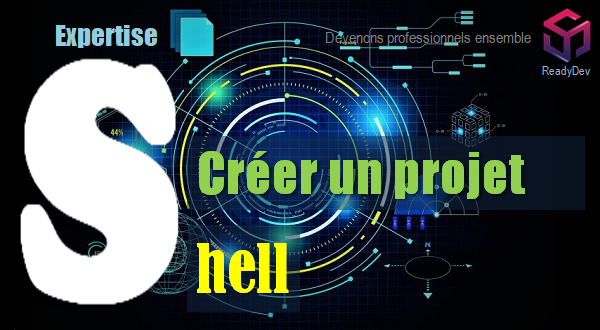
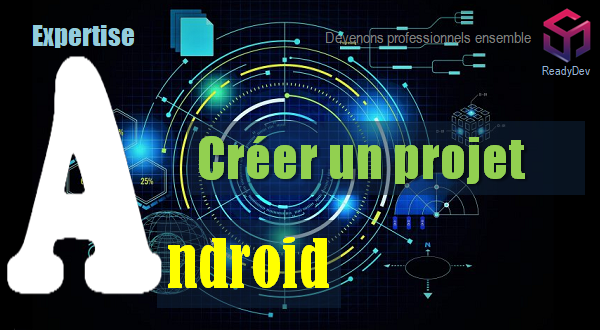
Initial Commit

Changed region(s): [[0.0, 0.0606, 0.99, 0.9697]]

diff --git a/Tutoriels/Android/Cours/Project/page/main.php b/Tutoriels/Android/Cours/Project/page/main.php
@@ -1,8 +1,61 @@
-<div class="Parallax GParallax1"><div class="Img Binary"><div class="Caption"><a href="#"><div class="Text">Créer un projet en Shell</div></a></div></div><div class="Body2 Orange">Le but de ce tutoriel est de vous apprendre à créer un projet en <b>Shell</b>.<br>Version Pro &amp; Industrielle. Produit par <b>Gérard KESSE</b>.<br><br><div class="Content0 GSummary1"><div class="Body0" id="Loader_1529412976174"><div class="Row26">Summary 1</div></div><script>loadSummary1("Loader_1529412976174");</script></div></div></div><br><div class="Content2 GTitle1"><div class="MainBlock2"><div class="Content"><h1 class="Title2 Center" id="Introduction"><a class="Link3" href="#">Introduction</a></h1><div class="Body3"><b>Shell </b>est un interpréteur de commandes destiné aux systèmes d'exploitation Unix et de type Unix qui permet d'accéder aux fonctionnalités internes du système d'exploitation. Il se présente sous la forme d'une interface en ligne de commande accessible depuis la console ou un terminal. L'utilisateur lance des commandes sous forme d'une entrée texte exécutée ensuite par le shell. (ref. <a class="Link7 GLink1" style="color:lime;" target="_blank" href="https://fr.wikipedia.org/wiki/Shell_Unix">Wikipédia</a>) <br><br><div class="Img3 GImage"><img src="/Tutoriels/Shell/img/b_cours_project.png" alt="/Tutoriels/Shell/img/b_cours_project.png"></div><br></div></div></div></div><br><div class="Content2 GTitle1"><div class="MainBlock2"><div class="Content"><h1 class="Title2 Center" id="Créer un projet Shell"><a class="Link3" href="#">Créer un projet Shell</a></h1><div class="Body3"><br><div class="Content0 GSummary2"><div class="Body0" id="Loader_1599250744051"><div class="Row26">Summary 2</div></div><script>loadSummary2("Loader_1599250744051");</script></div><br><h2 class="Title7 GTitle2" id="Créer un projet Shell-Introduction"><a class="Link9" href="#Créer un projet Shell">Introduction</a></h2><br>Un projet Shell commence par un fichier d'entrée qui contient le programme principal du projet. Nous choisissons de l’appeler (main.sh). Le fichier d'entrée est lancé dans un teminal par la commande (./main.sh).<br><br>Dans l'exemple qui suit, nous essayons d'écrire un programme ayant une fonction d'entrée (GAdmin_Main) qui affiche un message à l'écran (Bonjour tout le monde).<br><br><h2 class="Title7 GTitle2" id="Créer un projet Shell-Programme principal"><a class="Link9" href="#Créer un projet Shell">Programme principal</a></h2><br><div class="GCode1"><pre class="Code2"><xmp class="AceCode" data-mode="sh">#!/bin/bash
-#================================================
-GAdmin_Main() {
-printf "Bonjour tout le monde\n"
+<div class="Parallax GParallax1"><div class="Img Binary"><div class="Caption"><a href="#"><div class="Text">Créer un projet Android</div></a></div></div><div class="Body2 Orange">Le but de ce tutoriel est de vous apprendre à créer un projet <b>Android</b>.<br>Version Pro &amp; Industrielle. Produit par <b>Gérard KESSE</b>.<br><br><div class="Content0 GSummary1"><div class="Body0" id="Loader_1529412976174"><div class="Row26">Summary 1</div></div><script>loadSummary1("Loader_1529412976174");</script></div></div></div><br><div class="Content2 GTitle1"><div class="MainBlock2"><div class="Content"><h1 class="Title2 Center" id="Introduction"><a class="Link3" href="#">Introduction</a></h1><div class="Body3"><b>Android </b>est un système d'exploitation mobile, fondé sur le noyau Linux et développé par Google. Lancé en juin 2007 à la suite du rachat par Google en 2005 de la startup du même nom, le système avait d'abord été conçu pour les smartphones et tablettes tactiles, puis s'est diversifié dans les objets connectés et ordinateurs comme les télévisions (Android TV), les voitures (Android Auto), les Chromebook (Chrome OS qui utilise les applications Android) et les smartwatch (Wear OS). En 2015, Android est le système d'exploitation mobile le plus utilisé dans le monde, devant iOS d’Apple, avec plus de 80 % de parts de marché dans les smartphones pour l'ensemble de ses versions et adaptations. (ref. <a class="Link7 GLink1" style="color:lime;" target="_blank" href="https://fr.wikipedia.org/wiki/Android">Wikipédia</a>)<br><br><div class="Img3 GImage"><img src="/Tutoriels/Android/img/b_cours_project.png" alt="/Tutoriels/Android/img/b_cours_project.png"></div><br></div></div></div></div><br><div class="Content2 GTitle1"><div class="MainBlock2"><div class="Content"><h1 class="Title2 Center" id="Créer un projet Android"><a class="Link3" href="#">Créer un projet Android</a></h1><div class="Body3"><br><div class="Content0 GSummary2"><div class="Body0" id="Loader_1599250744051"><div class="Row26">Summary 2</div></div><script>loadSummary2("Loader_1599250744051");</script></div><br><h2 class="Title7 GTitle2" id="Créer un projet Android-Introduction"><a class="Link9" href="#Créer un projet Android">Introduction</a></h2><br>Un projet Android commence par le fichier manifest (AndroidManifest.xml) qui définit l'activité principale de l'application, ainsi que ses activités secondaires. L'activité principale est le programme lancé au démarrage de l'application. Nous choisissons de l’appeler (GMainActivity). La compilation du projet génère un fichier (*.apk) utilisé par le simulateur Android pour visualiser l'application.<br><br>Dans l'exemple qui suit, nous essayons d'écrire un programme qui affiche un message à l'écran (Bonjour tout le monde).<br><br><h2 class="Title7 GTitle2" id="Créer un projet Android-AndroidManifest.xml"><a class="Link9" href="#Créer un projet Android">AndroidManifest.xml</a></h2><br>C'est qui le fichier de déclaration des activités de l'application.<br><br><div class="GCode1"><pre class="Code2"><xmp class="AceCode" data-mode="xml">&lt;?xml version="1.0" encoding="utf-8"?&gt;
+&lt;!--=============================================--&gt;
+&lt;manifest 
+    xmlns:android="http://schemas.android.com/apk/res/android"
+    package="com.pkg.readyapp"&gt;
+    &lt;!--=============================================--&gt;
+    &lt;application
+        android:allowBackup="true"
+        android:icon="@mipmap/ic_launcher"
+        android:label="@string/app_name"
+        android:roundIcon="@mipmap/ic_launcher_round"
+        android:supportsRtl="true"
+        android:theme="@style/AppTheme"&gt;
+        &lt;!--=============================================--&gt;
+        &lt;activity android:name=".GMainActivity"&gt;
+            &lt;intent-filter&gt;
+                &lt;action android:name="android.intent.action.MAIN" /&gt;
+                &lt;category android:name="android.intent.category.LAUNCHER" /&gt;
+            &lt;/intent-filter&gt;
+        &lt;/activity&gt;
+        &lt;!--=============================================--&gt;
+    &lt;/application&gt;
+    &lt;!--=============================================--&gt;
+&lt;/manifest&gt;
+&lt;!--=============================================--&gt;</xmp></pre></div><br><h2 class="Title7 GTitle2" id="Créer un projet Android-GMainActivity.java"><a class="Link9" href="#Créer un projet Android">GMainActivity.java</a></h2><br>C'est l'activité principale et elle utilise le layout (main_layout).<br><br><div class="GCode1"><pre class="Code2"><xmp class="AceCode" data-mode="java">//===============================================
+package com.pkg.readyapp;
+//===============================================
+import android.os.Bundle;
+import android.app.Activity;
+//===============================================
+public class GMainActivity extends Activity {
+    //===============================================
+    @Override
+    protected void onCreate(Bundle savedInstanceState) {
+        super.onCreate(savedInstanceState);
+        setContentView(R.layout.main_layout);
+    }
+    //===============================================
 }
-#================================================
-GAdmin_Main
-#================================================</xmp></pre></div><br><h2 class="Title7 GTitle2" id="Créer un projet Shell-Résultat"><a class="Link9" href="#Créer un projet Shell">Résultat</a></h2><br><div class="Img3 GImage"><img src="/Tutoriels/Shell/img/i_cours_project.png" alt="/Tutoriels/Shell/img/i_cours_project.png"></div><br></div></div></div></div><br><div class="Content2 GTitle1"><div class="MainBlock2"><div class="Content"><h1 class="Title2 Center" id="Voir Aussi"><a class="Link3" href="#">Voir Aussi</a></h1><div class="Body3">Dans cette même catégorie, vous pouvez consulter aussi :<br><br><span class="GColor1" style="color:lime;">Programmation de base</span><br><br><div class="Content0 GList1"><div class="Body0" id="Loader_1600429735365"><div class="Row26">List 1 &gt; Shell &gt; basics</div></div><script>loadList1("Loader_1600429735365","Shell","basics");</script></div><br></div></div></div></div><br>
+//===============================================</xmp></pre></div><br><h2 class="Title7 GTitle2" id="Créer un projet Android-main_layout.xml"><a class="Link9" href="#Créer un projet Android">main_layout.xml</a></h2><br>C'est le layout associé à l'activité principale et il utilise une vue texte (TextView).<br><br><div class="GCode1"><pre class="Code2"><xmp class="AceCode" data-mode="xml">&lt;?xml version="1.0" encoding="utf-8"?&gt;
+&lt;!--=============================================--&gt;
+&lt;androidx.constraintlayout.widget.ConstraintLayout 
+    xmlns:android="http://schemas.android.com/apk/res/android"
+    xmlns:app="http://schemas.android.com/apk/res-auto"
+    xmlns:tools="http://schemas.android.com/tools"
+    android:layout_width="match_parent"
+    android:layout_height="match_parent"
+    tools:context=".GMainActivity"&gt;
+    &lt;!--=============================================--&gt;
+    &lt;TextView
+        android:id="@+id/textview_state"
+        android:layout_width="wrap_content"
+        android:layout_height="wrap_content"
+        android:text="Bonjour tout le monde"
+        app:layout_constraintBottom_toBottomOf="parent"
+        app:layout_constraintLeft_toLeftOf="parent"
+        app:layout_constraintRight_toRightOf="parent"
+        app:layout_constraintTop_toTopOf="parent" /&gt;
+    &lt;!--=============================================--&gt;
+&lt;/androidx.constraintlayout.widget.ConstraintLayout&gt;
+&lt;!--=============================================--&gt;</xmp></pre></div><br><h2 class="Title7 GTitle2" id="Créer un projet Android-Résultat"><a class="Link9" href="#Créer un projet Android">Résultat</a></h2><br><div class="Img3 GImage"><img src="/Tutoriels/Android/img/i_cours_project.png" alt="/Tutoriels/Android/img/i_cours_project.png"></div><br></div></div></div></div><br><div class="Content2 GTitle1"><div class="MainBlock2"><div class="Content"><h1 class="Title2 Center" id="Voir Aussi"><a class="Link3" href="#">Voir Aussi</a></h1><div class="Body3">Dans cette même catégorie, vous pouvez consulter aussi :<br><br><span class="GColor1" style="color:lime;">Programmation de base</span><br><br><div class="Content0 GList1"><div class="Body0" id="Loader_1600429735365"><div class="Row26">List 1 &gt; Android &gt; basics</div></div><script>loadList1("Loader_1600429735365","Android","basics");</script></div><br></div></div></div></div><br>

diff --git a/Tutoriels/Android/page/main.php b/Tutoriels/Android/page/main.php
@@ -1,1 +1,1 @@
-<div class="Parallax GParallax1"><div class="Img Binary"><div class="Caption"><a href="#"><div class="Text">Apprendre la programmation en Shell<br></div></a></div></div><div class="Body2 Orange">Le but de ce tutoriel est de vous apprendre la programmation en <b>Shell</b>.<br>Version Pro &amp; Industrielle. Produit par <b>Gérard KESSE</b>.<br><br><div class="Content0 GSummary1"><div class="Body0" id="Loader_1529412976174"><div class="Row26">Summary 1</div></div><script>loadSummary1("Loader_1529412976174");</script></div></div></div><br><div class="Content2 GTitle1"><div class="MainBlock2"><div class="Content"><h1 class="Title2 Center" id="Introduction"><a class="Link3" href="#">Introduction</a></h1><div class="Body3"><b>Shell</b> est un interpréteur de commandes destiné aux systèmes d'exploitation de type Unix qui permet d'accéder aux fonctionnalités internes du système d'exploitation. Il se présente sous la forme d'une interface en ligne de commande accessible depuis la console ou un terminal. L'utilisateur lance des commandes sous forme d'une entrée texte exécutée ensuite par le shell. (ref. <a class="Link7 GLink1" style="color:lime;" target="_blank" href="https://fr.wikipedia.org/wiki/Shell_Unix">Wikipédia</a>)<br><br><div class="Img3 GImage"><img src="/Tutoriels/Shell/img/b_shell.png" alt="/Tutoriels/Shell/img/b_shell.png"></div><br></div></div></div></div><br><div class="Content2 GTitle1"><div class="MainBlock2"><div class="Content"><h1 class="Title2 Center" id="Programmation de base"><a class="Link3" href="#">Programmation de base</a></h1><div class="Body3"><br><h2 class="Title7 GTitle2" id="Programmation de base-Sommaire"><a class="Link9" href="#Programmation de base">Sommaire</a></h2><br><div class="Content0 GList1"><div class="Body0" id="Loader_1600429063037"><div class="Row26">List 1 &gt; Shell &gt; basics</div></div><script>loadList1("Loader_1600429063037","Shell","basics");</script></div><br></div></div></div></div><br>
+<div class="Parallax GParallax1"><div class="Img Binary"><div class="Caption"><a href="#"><div class="Text">Apprendre la programmation mobile sous Android<br></div></a></div></div><div class="Body2 Orange">Le but de ce tutoriel est de vous apprendre la programmation mobile avec <b>Android</b>.<br>Version Pro &amp; Industrielle. Produit par <b>Gérard KESSE</b>.<br><br><div class="Content0 GSummary1"><div class="Body0" id="Loader_1529412976174"><div class="Row26">Summary 1</div></div><script>loadSummary1("Loader_1529412976174");</script></div></div></div><br><div class="Content2 GTitle1"><div class="MainBlock2"><div class="Content"><h1 class="Title2 Center" id="Introduction"><a class="Link3" href="#">Introduction</a></h1><div class="Body3"><b>Android</b> est un système d'exploitation mobile, fondé sur le noyau Linux et développé par Google. Lancé en juin 2007 à la suite du rachat par Google en 2005 de la startup du même nom, le système avait d'abord été conçu pour les smartphones et tablettes tactiles, puis s'est diversifié dans les objets connectés et ordinateurs comme les télévisions (Android TV), les voitures (Android Auto), les Chromebook (Chrome OS qui utilise les applications Android) et les smartwatch (Wear OS). En 2015, Android est le système d'exploitation mobile le plus utilisé dans le monde, devant iOS d’Apple, avec plus de 80 % de parts de marché dans les smartphones pour l'ensemble de ses versions et adaptations. (ref. <a class="Link7 GLink1" style="color:lime;" target="_blank" href="https://fr.wikipedia.org/wiki/Android">Wikipédia</a>)<br><br><div class="Img3 GImage"><img src="/Tutoriels/Android/img/b_android.png" alt="/Tutoriels/Android/img/b_android.png"></div><br></div></div></div></div><br><div class="Content2 GTitle1"><div class="MainBlock2"><div class="Content"><h1 class="Title2 Center" id="Programmation de base"><a class="Link3" href="#">Programmation de base</a></h1><div class="Body3"><br><h2 class="Title7 GTitle2" id="Programmation de base-Sommaire"><a class="Link9" href="#Programmation de base">Sommaire</a></h2><br><div class="Content0 GList1"><div class="Body0" id="Loader_1600429063037"><div class="Row26">List 1 &gt; Android &gt; basics</div></div><script>loadList1("Loader_1600429063037","Android","basics");</script></div><br></div></div></div></div><br>

diff --git a/Tutoriels/Android/Cours/Project/index.php b/Tutoriels/Android/Cours/Project/index.php
@@ -1,11 +1,11 @@
 <?php
     require $_SERVER["DOCUMENT_ROOT"]."/php/class/GAutoloadRegister.php";
     
-    $m_data = GJson::Instance()->getData("data/json/Shell_Cours_Project.json");
+    $m_data = GJson::Instance()->getData("data/json/Android_Cours_Project.json");
     
-    GConfig::Instance()->setData("title", "Shell - Créer un projet");
+    GConfig::Instance()->setData("title", "Android - Créer un projet");
     GConfig::Instance()->setData("menu", "Tutoriels");
-    GConfig::Instance()->setData("view", "Shell_Cours_Project");
+    GConfig::Instance()->setData("view", "Android_Cours_Project");
     GConfig::Instance()->setData("link", $m_data["links"]);
 
     require $_SERVER["DOCUMENT_ROOT"]."/php/header.php";

diff --git a/Tutoriels/Android/index.php b/Tutoriels/Android/index.php
@@ -1,11 +1,11 @@
 <?php
     require $_SERVER["DOCUMENT_ROOT"]."/php/class/GAutoloadRegister.php";
     
-    $m_data = GJson::Instance()->getData("data/json/Shell.json");
+    $m_data = GJson::Instance()->getData("data/json/Android.json");
     
-    GConfig::Instance()->setData("title", "Shell");
+    GConfig::Instance()->setData("title", "Android");
     GConfig::Instance()->setData("menu", "Tutoriels");
-    GConfig::Instance()->setData("view", "Shell");
+    GConfig::Instance()->setData("view", "Android");
     GConfig::Instance()->setData("link", $m_data["links"]);
 
     require $_SERVER["DOCUMENT_ROOT"]."/php/header.php";
